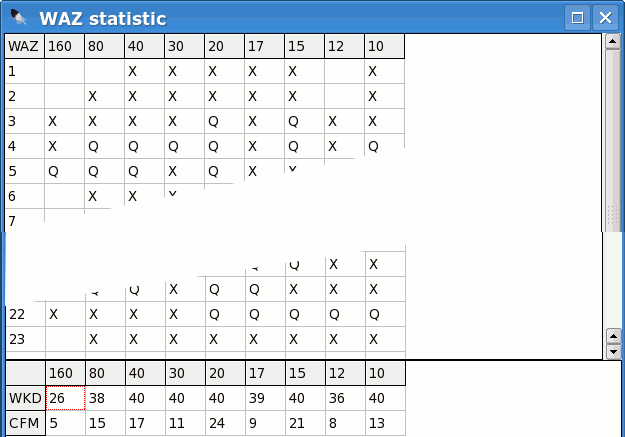
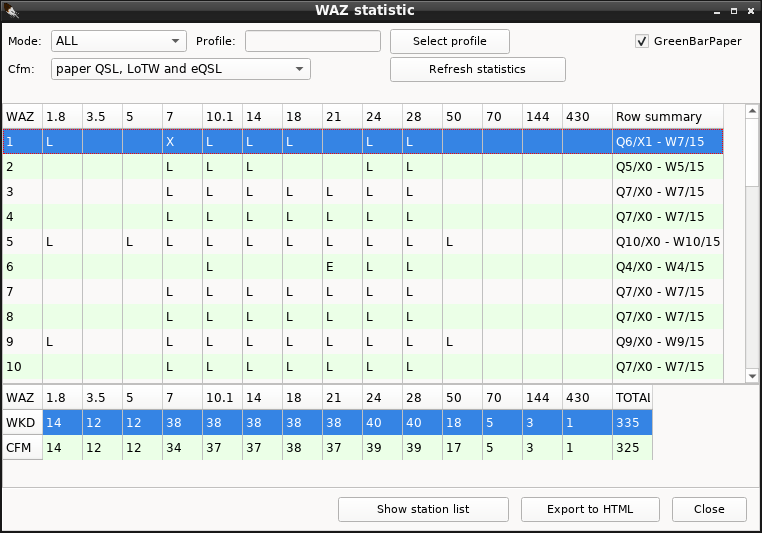
Statistics:Fix: some layout fixes for WAZ,ITU,WAC,WAS

diff --git a/src/changelog.html b/src/changelog.html
@@ -12,6 +12,7 @@
     What is new:
     <ul style="list-style: square;text-align:left; color: green;" >
     <li>(139)</li><ul>
+    <li>Statistics:Fix: some layout fixes for WAZ,ITU,WAC,WAS </li>	
     <li>WSJTX monitor:Map:Fix: Map monitor clear when file or word filter is used</li>
     <li>Reminder:Fix: rewritten without TMaskEdit that caused ReminderXXX.EnableSets-error when compiled with lazarus version < 3.8 </li>	
     </ul><li>(138) 2025-10-01</li><ul>